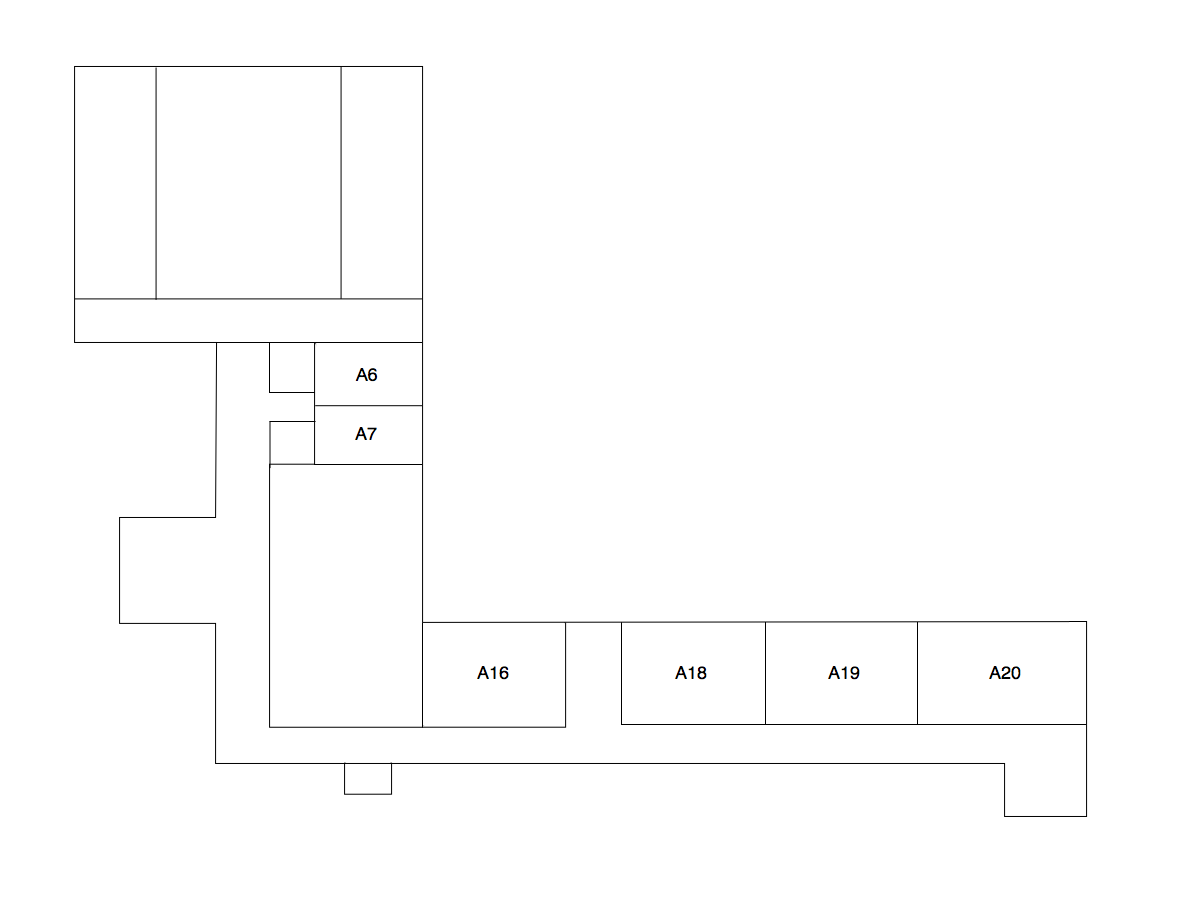
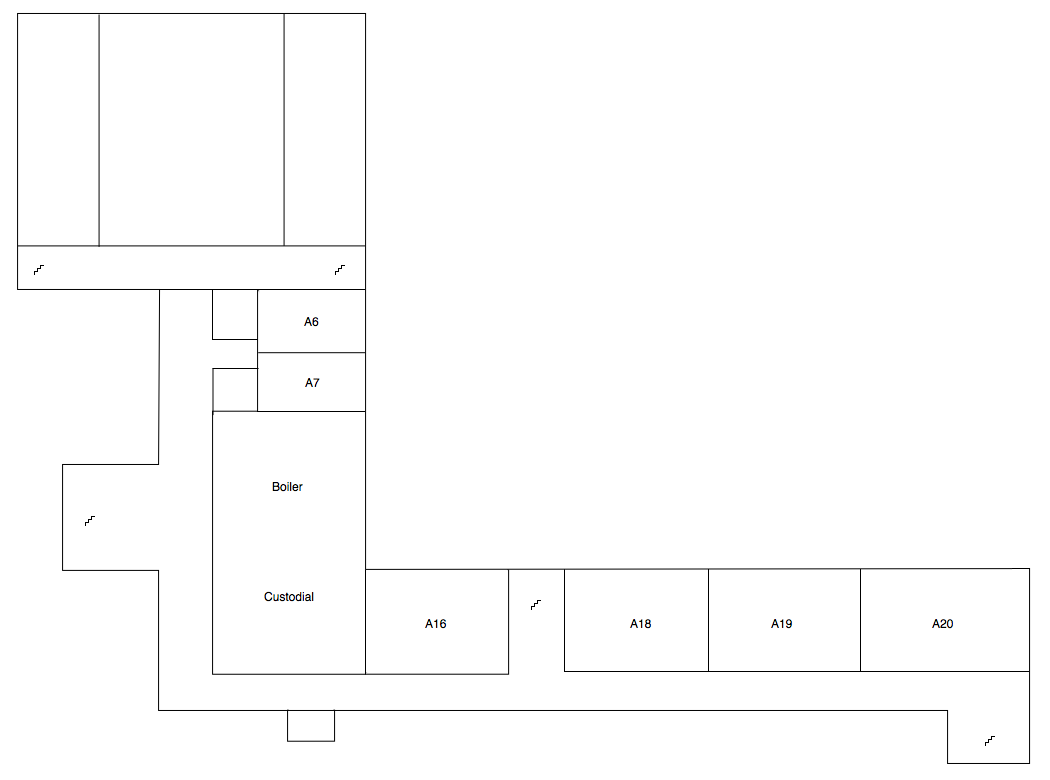
Update last floor map image.

diff --git a/public/floor-a.html b/public/floor-a.html
@@ -13,7 +13,7 @@
 
     <h1>A Basement Floor</h1>
 
-    <img src="/img/a-basement-floor.png" width="1200" height="900" alt="A Basement Floor">
+    <img src="/img/a-basement-floor.png" width="1050" height="780" alt="A Basement Floor">
 
 </body>
 </html>

diff --git a/public/floor-b.html b/public/floor-b.html
@@ -13,7 +13,7 @@
 
     <h1>B Main Floor</h1>
 
-    <img src="/img/b-main-floor.png" width="1100" height="571" alt="B Main Floor">
+    <img src="/img/b-main-floor.png" width="1300" height="700" alt="B Main Floor">
 
 </body>
 </html>
